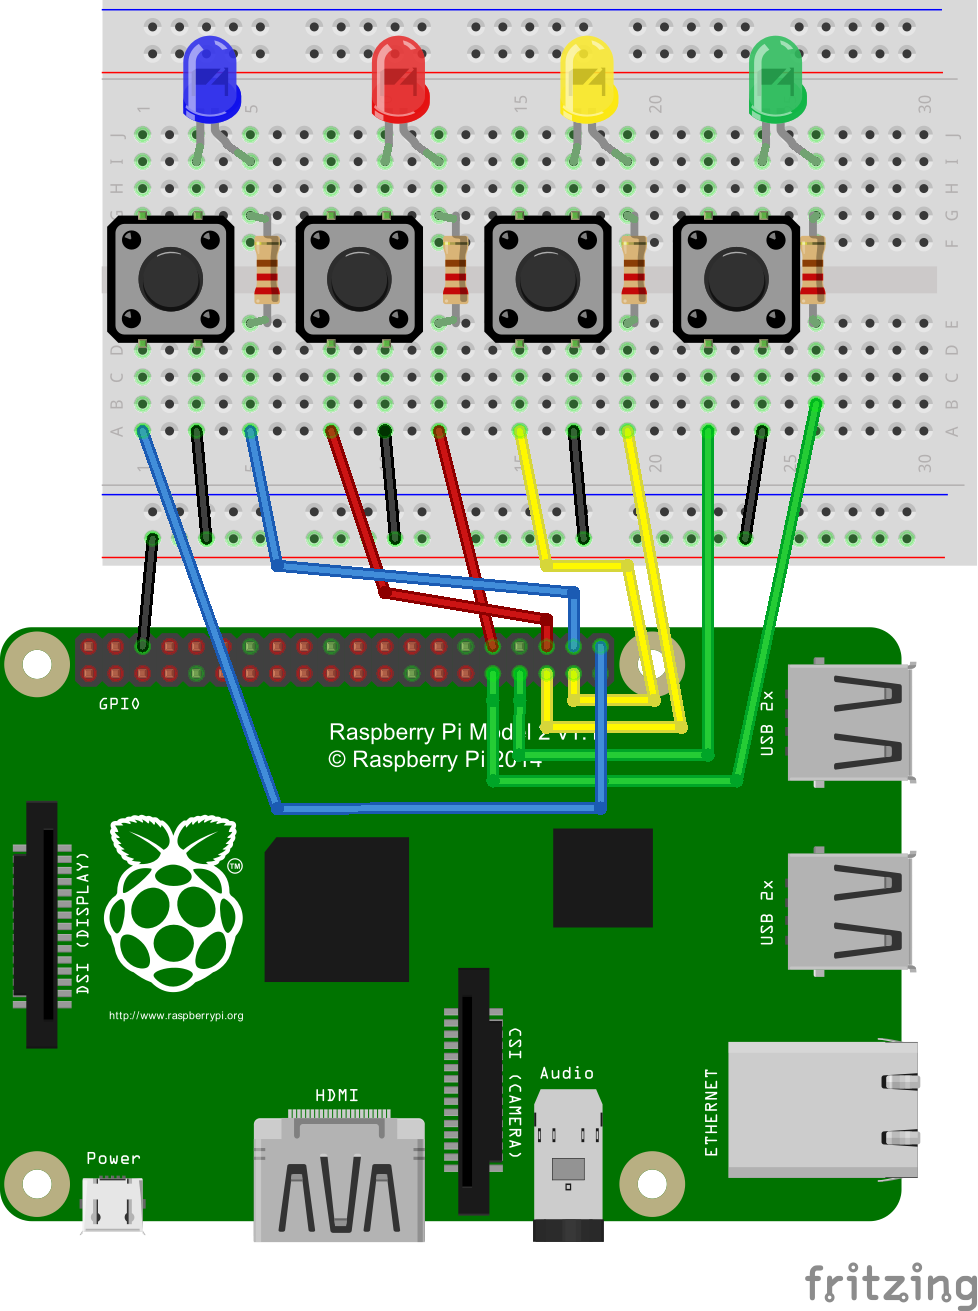
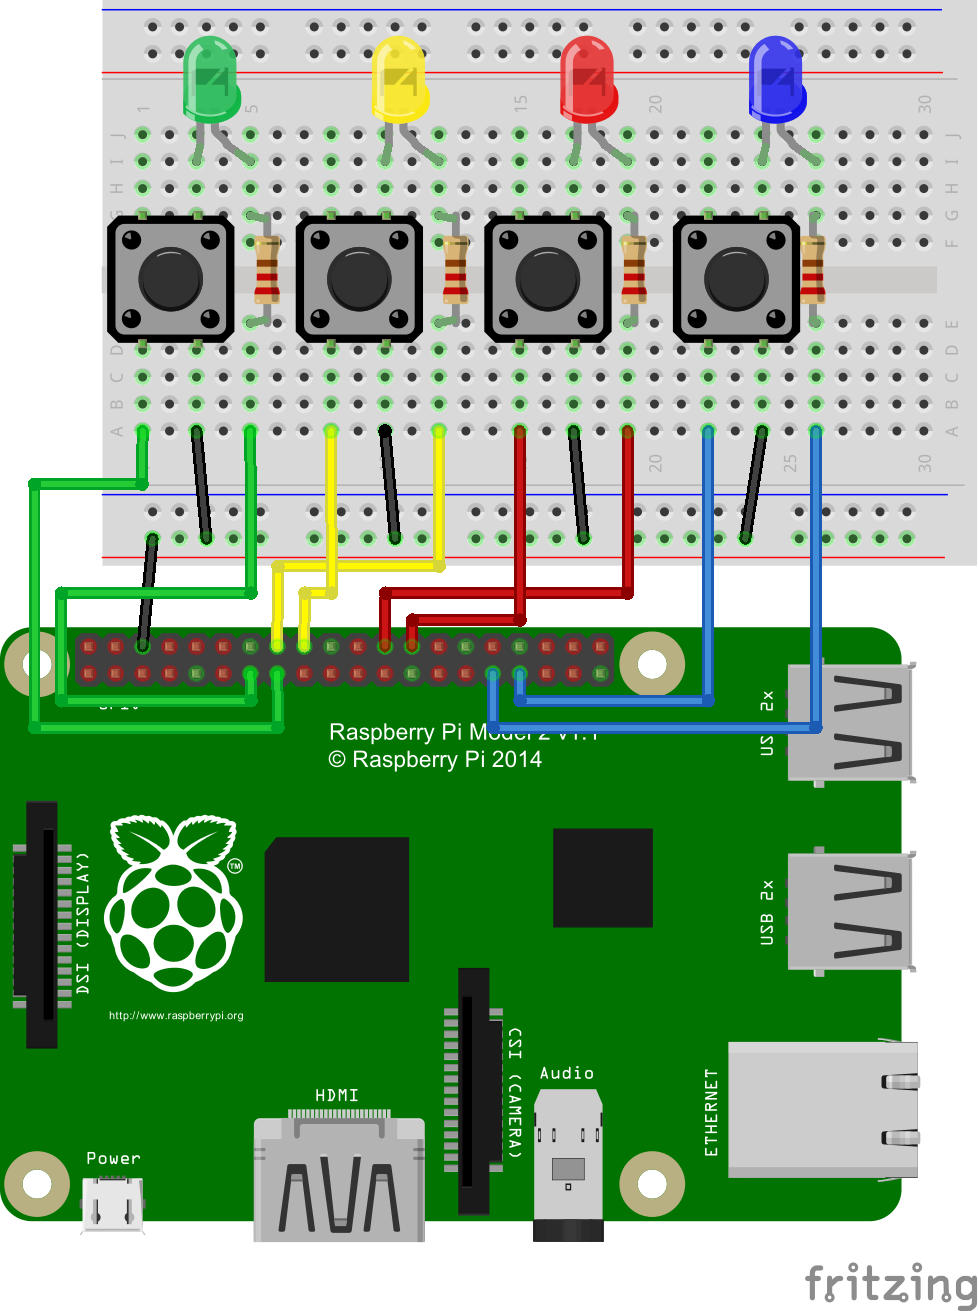
Update raspberry pi pin mapping
Apparently, some of the pins we previous used are shared with the PCM driver, thus blocking the built-in sound card from being used.

diff --git a/src/app/simon/SimonSegment.ts b/src/app/simon/SimonSegment.ts
@@ -39,16 +39,16 @@ export class SimonSegment {
   // button/LED colors and Raspberry Pi pins.
   // They are ignored in the web version of the game.
   private LEDS = {
-    green: 'GPIO6',
-    yellow: 'GPIO19',
-    red: 'GPIO12',
-    blue: 'GPIO20'
+    green: 'GPIO27',
+    yellow: 'GPIO23',
+    red: 'GPIO8',
+    blue: 'GPIO6'
   };
 
   private BUTTONS = {
-    green: 'GPIO13',
-    yellow: 'GPIO26',
-    red: 'GPIO16',
-    blue: 'GPIO21'
+    green: 'GPIO22',
+    yellow: 'GPIO24',
+    red: 'GPIO7',
+    blue: 'GPIO13'
   };
 }
